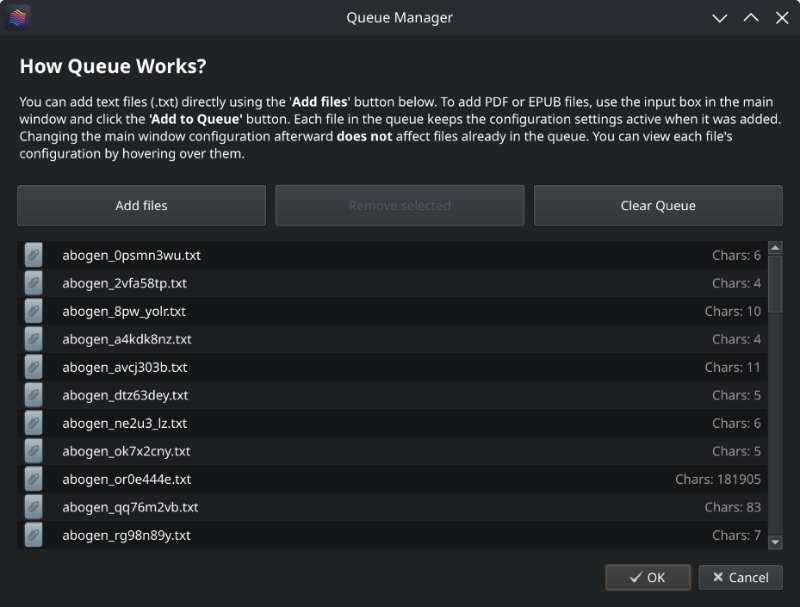
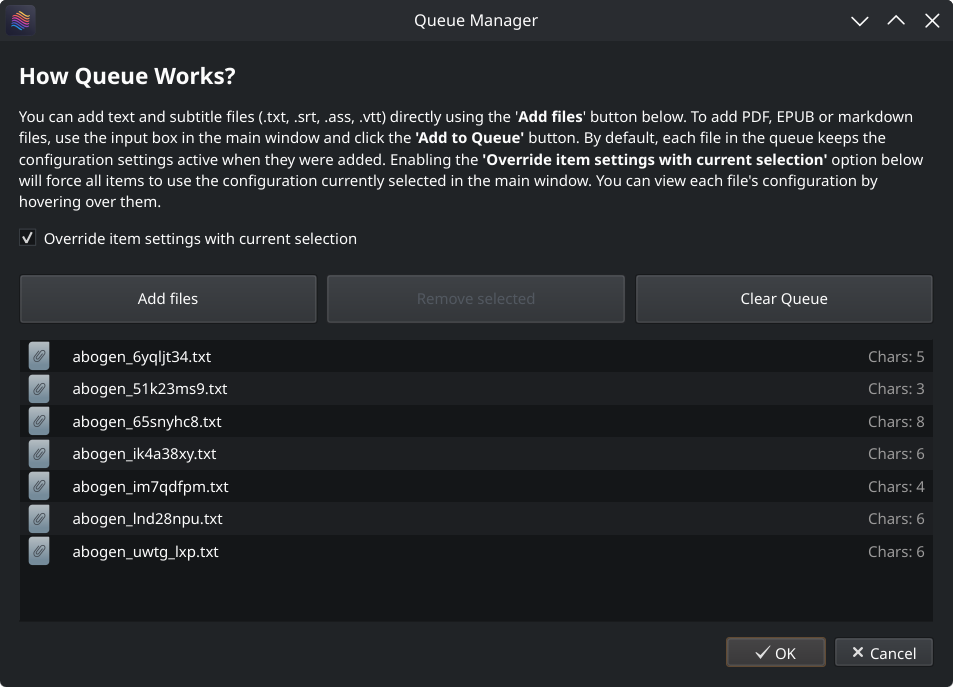
Added new option: `Override item settings with current selection`

diff --git a/abogen/gui.py b/abogen/gui.py
@@ -1952,6 +1952,11 @@ class abogen(QWidget):
         dialog = QueueManager(self, self.queued_items)
         if dialog.exec() == QDialog.DialogCode.Accepted:
             self.queued_items = dialog.get_queue()
+
+            # Reload config to capture the new "Override" setting
+            # The QueueManager writes to disk, so we must refresh our local copy
+            self.config = load_config()
+            
             # re-enable/disable buttons based on queue state
             self.enable_disable_queue_buttons()
 
@@ -1967,30 +1972,62 @@ class abogen(QWidget):
     def start_next_queued_item(self):
         if self.current_queue_index < len(self.queued_items):
             queued_item = self.queued_items[self.current_queue_index]
+            
             self.selected_file = queued_item.file_name
-            self.selected_lang = queued_item.lang_code
-            self.speed_slider.setValue(int(queued_item.speed * 100))
-            self.selected_voice = queued_item.voice
-            self.save_option = queued_item.save_option
-            self.selected_output_folder = queued_item.output_folder
-            self.subtitle_mode = queued_item.subtitle_mode
-            self.selected_format = queued_item.output_format
             self.char_count = queued_item.total_char_count
-            self.replace_single_newlines = getattr(
-                queued_item, "replace_single_newlines", True
+            
+            # Restore the original file path for save location (Important for EPUB/PDF)
+            self.displayed_file_path = (
+                queued_item.save_base_path or queued_item.file_name
             )
-            self.use_silent_gaps = getattr(queued_item, "use_silent_gaps", False)
-            # Restore save_chapters_separately and merge_chapters_at_end from queued item
+            
+            # Restore chapter options (Structure specific, must be preserved)
             self.save_chapters_separately = getattr(
                 queued_item, "save_chapters_separately", None
             )
             self.merge_chapters_at_end = getattr(
                 queued_item, "merge_chapters_at_end", None
             )
-            # Restore the original file path for save location
-            self.displayed_file_path = (
-                queued_item.save_base_path or queued_item.file_name
-            )
+
+            # CHECK GLOBAL OVERRIDE SETTING
+            if not self.config.get("queue_override_settings", False):
+                self.selected_lang = queued_item.lang_code
+                self.speed_slider.setValue(int(queued_item.speed * 100))
+                
+                # Load the specific voice string
+                self.selected_voice = queued_item.voice
+                # Clear complex GUI states so the specific voice string is used
+                self.mixed_voice_state = None
+                self.selected_profile_name = None
+
+                self.save_option = queued_item.save_option
+                self.selected_output_folder = queued_item.output_folder
+                self.subtitle_mode = queued_item.subtitle_mode
+                self.selected_format = queued_item.output_format
+                self.replace_single_newlines = getattr(
+                    queued_item, "replace_single_newlines", True
+                )
+                self.use_silent_gaps = getattr(queued_item, "use_silent_gaps", False)
+                self.subtitle_speed_method = getattr(
+                    queued_item, "subtitle_speed_method", "tts"
+                )
+
+                # This ensures that if conversion.py (or utils) reads from config/disk 
+                # instead of using passed arguments, it sees the correct queue values.
+                self.config["replace_single_newlines"] = self.replace_single_newlines
+                self.config["subtitle_mode"] = self.subtitle_mode
+                self.config["selected_format"] = self.selected_format
+                self.config["use_silent_gaps"] = self.use_silent_gaps
+                self.config["subtitle_speed_method"] = self.subtitle_speed_method
+                
+                # Sync Voice/Profile in config
+                self.config["selected_voice"] = self.selected_voice
+                if "selected_profile_name" in self.config:
+                    del self.config["selected_profile_name"]
+                
+                # Note: Speed is already synced via self.speed_slider.setValue() -> update_speed_label()
+                save_config(self.config)
+
             self.start_conversion(from_queue=True)
         else:
             # Queue finished, reset index
@@ -2188,36 +2225,95 @@ class abogen(QWidget):
         threading.Thread(target=gpu_and_load, daemon=True).start()
 
     def show_queue_summary(self):
-        """Show a styled, resizable summary dialog after queue finishes."""
+        """Show a summary dialog after queue finishes."""
         if not self.queued_items:
             return
 
-        # Build HTML summary for better styling
+        # Check if override was active (this determines which settings were ACTUALLY used)
+        override_active = self.config.get("queue_override_settings", False)
+
+        # If override is ON, capture the global settings that were used for processing
+        if override_active:
+            g_voice = self.get_voice_formula()
+            g_lang = self.get_selected_lang(g_voice)
+            g_speed = self.speed_slider.value() / 100.0
+            g_sub_mode = self.get_actual_subtitle_mode()
+            g_format = self.selected_format
+            g_newlines = self.replace_single_newlines
+            g_silent_gaps = self.use_silent_gaps
+            g_speed_method = self.subtitle_speed_method
+        
+        # Build HTML summary (Default Styling)
         summary_html = "<html><body>"
+        
+        header_text = "Queue finished"
+        if override_active:
+            header_text += " (Global Settings Applied)"
+            
         summary_html += (
-            f"<h2 style='color:{COLORS['LIGHT_BG']};'>Queue finished</h2>"
+            f"<h2>{header_text}</h2>"
             f"Processed {len(self.queued_items)} items:<br><br>"
         )
 
         for idx, item in enumerate(self.queued_items, 1):
-            output = getattr(item, "output_path", None)
-            if not output:
-                output = "Unknown"
+            # Resolve Effective Settings
+            if override_active:
+                eff_lang = g_lang
+                eff_voice = g_voice
+                eff_speed = g_speed
+                eff_sub_mode = g_sub_mode
+                eff_format = g_format
+                eff_newlines = g_newlines
+                eff_silent = g_silent_gaps
+                eff_method = g_speed_method
+            else:
+                eff_lang = item.lang_code
+                eff_voice = item.voice
+                eff_speed = item.speed
+                eff_sub_mode = item.subtitle_mode
+                eff_format = item.output_format
+                eff_newlines = getattr(item, "replace_single_newlines", True)
+                eff_silent = getattr(item, "use_silent_gaps", False)
+                eff_method = getattr(item, "subtitle_speed_method", "tts")
+
+            # Retrieve File-Specific Data (Never Overridden)
+            eff_chars = item.total_char_count
+            eff_input = item.file_name
+            eff_output = getattr(item, "output_path", "Unknown") 
+            eff_save_sep = getattr(item, "save_chapters_separately", None)
+            eff_merge = getattr(item, "merge_chapters_at_end", None)
+
+            # --- Construct Display Block ---
             summary_html += (
-                f"<span style='color:{COLORS['GREEN']}; font-weight:bold;'>{idx}) {os.path.basename(item.file_name)}</span><br>"
-                f"<span style='color:{COLORS['LIGHT_DISABLED']};'>Language:</span> {item.lang_code}<br>"
-                f"<span style='color:{COLORS['LIGHT_DISABLED']};'>Voice:</span> {item.voice}<br>"
-                f"<span style='color:{COLORS['LIGHT_DISABLED']};'>Speed:</span> {item.speed}<br>"
-                f"<span style='color:{COLORS['LIGHT_DISABLED']};'>Characters:</span> {item.total_char_count}<br>"
-                f"<span style='color:{COLORS['LIGHT_DISABLED']};'>Input:</span> {item.file_name}<br>"
-                f"<span style='color:{COLORS['LIGHT_DISABLED']};'>Output:</span> {output}</span>"
-                f"<br><br>"
+                f"<span style='color:{COLORS['GREEN']}; font-weight:bold;'>{idx}) {os.path.basename(eff_input)}</span><br>"
+                f"<span style='color:{COLORS['LIGHT_DISABLED']};'>Language:</span> {eff_lang}<br>"
+                f"<span style='color:{COLORS['LIGHT_DISABLED']};'>Voice:</span> {eff_voice}<br>"
+                f"<span style='color:{COLORS['LIGHT_DISABLED']};'>Speed:</span> {eff_speed}<br>"
+                f"<span style='color:{COLORS['LIGHT_DISABLED']};'>Characters:</span> {eff_chars}<br>"
+                f"<span style='color:{COLORS['LIGHT_DISABLED']};'>Format:</span> {eff_format}<br>"
+                f"<span style='color:{COLORS['LIGHT_DISABLED']};'>Subtitle Mode:</span> {eff_sub_mode}<br>"
+                f"<span style='color:{COLORS['LIGHT_DISABLED']};'>Method:</span> {eff_method}<br>"
+                f"<span style='color:{COLORS['LIGHT_DISABLED']};'>Silent Gaps:</span> {eff_silent}<br>"
+                f"<span style='color:{COLORS['LIGHT_DISABLED']};'>Repl. Newlines:</span> {eff_newlines}<br>"
             )
+
+            # Book/Chapter specific options
+            if eff_save_sep is not None:
+                summary_html += f"<span style='color:{COLORS['LIGHT_DISABLED']};'>Split Chapters:</span> {eff_save_sep}<br>"
+                if eff_save_sep and eff_merge is not None:
+                    summary_html += f"<span style='color:{COLORS['LIGHT_DISABLED']};'>Merge End:</span> {eff_merge}<br>"
+
+            summary_html += (
+                f"<span style='color:{COLORS['LIGHT_DISABLED']};'>Input:</span> {eff_input}<br>"
+                f"<span style='color:{COLORS['LIGHT_DISABLED']};'>Output:</span> {eff_output}<br><br>"
+            )
+
         summary_html += "</body></html>"
 
         dialog = QDialog(self)
         dialog.setWindowTitle("Queue Summary")
-        dialog.resize(550, 650)  # Make window resizable and larger
+        # Allow resizing
+        dialog.resize(550, 650)
 
         layout = QVBoxLayout(dialog)
         text_edit = QTextEdit(dialog)
@@ -2232,7 +2328,7 @@ class abogen(QWidget):
 
         dialog.setLayout(layout)
         dialog.setMinimumSize(400, 300)
-        dialog.setSizeGripEnabled(True)  # Allow resizing
+        dialog.setSizeGripEnabled(True)
         dialog.exec()
 
     def on_conversion_finished(self, message, output_path):

diff --git a/abogen/queue_manager_gui.py b/abogen/queue_manager_gui.py
@@ -15,11 +15,27 @@ from PyQt6.QtWidgets import (
     QWidget,
     QSizePolicy,
     QAbstractItemView,
+    QCheckBox,
 )
 from PyQt6.QtCore import QFileInfo, Qt
 from abogen.constants import COLORS
 from copy import deepcopy
 from PyQt6.QtGui import QFontMetrics
+from abogen.utils import load_config, save_config
+
+# Define attributes that are safe to override with global settings
+OVERRIDE_FIELDS = [
+    "lang_code",
+    "speed",
+    "voice",
+    "save_option",
+    "output_folder",
+    "subtitle_mode",
+    "output_format",
+    "replace_single_newlines",
+    "use_silent_gaps",
+    "subtitle_speed_method",
+]
 
 
 class ElidedLabel(QLabel):
@@ -149,6 +165,8 @@ class QueueManager(QDialog):
             queue
         )  # Store a deep copy of the original queue
         self.parent = parent
+        self.config = load_config()  # Load config for persistence
+
         layout = QVBoxLayout()
         layout.setContentsMargins(15, 15, 15, 15)  # set main layout margins
         layout.setSpacing(12)  # set spacing between widgets in main layout
@@ -165,14 +183,27 @@ class QueueManager(QDialog):
             "<h2>How Queue Works?</h2>"
             "You can add text and subtitle files (.txt, .srt, .ass, .vtt) directly using the '<b>Add files</b>' button below. "
             "To add PDF, EPUB or markdown files, use the input box in the main window and click the <b>'Add to Queue'</b> button. "
-            "Each file in the queue keeps the configuration settings active when it was added. "
-            "Changing the main window configuration afterward <b>does not</b> affect files already in the queue. "
+            "By default, each file in the queue keeps the configuration settings active when they were added. "
+            "Enabling the <b>'Override item settings with current selection'</b> option below will force all items to use the configuration currently selected in the main window. "
             "You can view each file's configuration by hovering over them."
         )
         instructions.setAlignment(Qt.AlignmentFlag.AlignLeft)
         instructions.setWordWrap(True)
-        instructions.setStyleSheet("margin-bottom: 8px;")
         layout.addWidget(instructions)
+
+        # Override Checkbox
+        self.override_chk = QCheckBox("Override item settings with current selection")
+        self.override_chk.setToolTip(
+            "If checked, all items in the queue will be processed using the \n"
+            "settings currently selected in the main window, ignoring their saved state."
+        )
+        # Load saved state (default to False)
+        self.override_chk.setChecked(self.config.get("queue_override_settings", False))
+        # Trigger process_queue to update tooltips immediately when toggled
+        self.override_chk.stateChanged.connect(self.process_queue)
+        self.override_chk.setStyleSheet("margin-bottom: 8px;")
+        layout.addWidget(self.override_chk)
+
         # Overlay label for empty queue
         self.empty_overlay = QLabel(
             "Drag and drop your text or subtitle files here or use the 'Add files' button.",
@@ -245,8 +276,21 @@ class QueueManager(QDialog):
             return
         else:
             self.empty_overlay.hide()
+
+        # Get current global settings and checkbox state for overrides
+        current_global_settings = self.get_current_attributes()
+        is_override_active = self.override_chk.isChecked()
+
         icon_provider = QFileIconProvider()
         for item in self.queue:
+            # Dynamic Attribute Retrieval Helper
+            def get_val(attr, default=""):
+                # If override is ON and attr is overrideable, use global setting
+                if is_override_active and attr in OVERRIDE_FIELDS:
+                    return current_global_settings.get(attr, default)
+                # Otherwise return the item's saved attribute
+                return getattr(item, attr, default)
+
             # Determine display file path (prefer save_base_path for original file)
             display_file_path = getattr(item, "save_base_path", None) or item.file_name
             processing_file_path = item.file_name
@@ -271,8 +315,14 @@ class QueueManager(QDialog):
             # Get icon for the display file
             icon = icon_provider.icon(QFileInfo(display_file_path))
             list_item = QListWidgetItem()
-            # Set tooltip with detailed info
-            output_folder = getattr(item, "output_folder", "")
+
+            # Tooltip Generation
+            tooltip = ""
+            # If override is active, add the warning header on its own line
+            if is_override_active:
+                tooltip += "<b style='color: #ff9900;'>(Global Override Active)</b><br>"
+
+            output_folder = get_val("output_folder")
             # For plain .txt inputs we don't need to show a separate processing file
             show_processing = True
             try:
@@ -283,30 +333,31 @@ class QueueManager(QDialog):
             except Exception:
                 show_processing = True
 
-            tooltip = f"<b>Input File:</b> {display_file_path}<br>"
+            tooltip += f"<b>Input File:</b> {display_file_path}<br>"
             if (
                 show_processing
                 and processing_file_path
                 and processing_file_path != display_file_path
             ):
                 tooltip += f"<b>Processing File:</b> {processing_file_path}<br>"
+
             tooltip += (
-                f"<b>Language:</b> {getattr(item, 'lang_code', '')}<br>"
-                f"<b>Speed:</b> {getattr(item, 'speed', '')}<br>"
-                f"<b>Voice:</b> {getattr(item, 'voice', '')}<br>"
-                f"<b>Save Option:</b> {getattr(item, 'save_option', '')}<br>"
+                f"<b>Language:</b> {get_val('lang_code')}<br>"
+                f"<b>Speed:</b> {get_val('speed')}<br>"
+                f"<b>Voice:</b> {get_val('voice')}<br>"
+                f"<b>Save Option:</b> {get_val('save_option')}<br>"
             )
             if output_folder not in (None, "", "None"):
                 tooltip += f"<b>Output Folder:</b> {output_folder}<br>"
             tooltip += (
-                f"<b>Subtitle Mode:</b> {getattr(item, 'subtitle_mode', '')}<br>"
-                f"<b>Output Format:</b> {getattr(item, 'output_format', '')}<br>"
+                f"<b>Subtitle Mode:</b> {get_val('subtitle_mode')}<br>"
+                f"<b>Output Format:</b> {get_val('output_format')}<br>"
                 f"<b>Characters:</b> {getattr(item, 'total_char_count', '')}<br>"
-                f"<b>Replace Single Newlines:</b> {getattr(item, 'replace_single_newlines', True)}<br>"
-                f"<b>Use Silent Gaps:</b> {getattr(item, 'use_silent_gaps', False)}<br>"
-                f"<b>Speed Method:</b> {getattr(item, 'subtitle_speed_method', 'tts')}"
+                f"<b>Replace Single Newlines:</b> {get_val('replace_single_newlines', True)}<br>"
+                f"<b>Use Silent Gaps:</b> {get_val('use_silent_gaps', False)}<br>"
+                f"<b>Speed Method:</b> {get_val('subtitle_speed_method', 'tts')}"
             )
-            # Add book handler options if present
+            # Add book handler options if present (Preserve logic: specific to file structure)
             save_chapters_separately = getattr(item, "save_chapters_separately", None)
             merge_chapters_at_end = getattr(item, "merge_chapters_at_end", None)
             if save_chapters_separately is not None:
@@ -531,7 +582,6 @@ class QueueManager(QDialog):
 
     def add_more_files(self):
         from PyQt6.QtWidgets import QFileDialog
-        from abogen.utils import calculate_text_length  # import the function
 
         # Allow .txt, .srt, .ass, and .vtt files
         files, _ = QFileDialog.getOpenFileNames(
@@ -774,7 +824,10 @@ class QueueManager(QDialog):
         menu.exec(global_pos)
 
     def accept(self):
-        # Accept: keep changes
+        # Save the override state to config so it persists globally
+        self.config["queue_override_settings"] = self.override_chk.isChecked()
+        save_config(self.config)
+        
         super().accept()
 
     def reject(self):

diff --git a/README.md b/README.md
@@ -191,8 +191,9 @@ With voice mixer, you can create custom voices by mixing different voice models.
 
 Abogen supports **queue mode**, allowing you to add multiple files to a processing queue. This is useful if you want to convert several files in one batch.
 
-- You can add text files (`.txt`) directly using the **Add files** button in the Queue Manager. To add PDF, EPUB, or markdown files, use the input box in the main window and click the **Add to Queue** button.
+- You can add text files (`.txt`) and subtitle files (`.srt`, `.ass`, `.vtt`) directly using the **Add files** button in the Queue Manager or by dragging and dropping them into the queue list. To add PDF, EPUB, or markdown files, use the input box in the main window and click the **Add to Queue** button.
 - Each file in the queue keeps the configuration settings that were active when it was added. Changing the main window configuration afterward does **not** affect files already in the queue.
+- You can enable the **Override item settings with current selection** option to force all items in the queue to use the configuration currently selected in the main window, overriding their saved settings.
 - You can view each file's configuration by hovering over them.
 
 Abogen will process each item in the queue automatically, saving outputs as configured.

diff --git a/CHANGELOG.md b/CHANGELOG.md
@@ -1,4 +1,5 @@
 # 1.2.5 (Pre-release)
+- Added new option: `Override item settings with current selection` in the queue manager. When enabled, all items in the queue will be processed using the current global settings selected in the main GUI, overriding their individual settings. When disabled, each item will retain its own specific settings.
 - Fixed `Error "Could not load the Qt platform plugin "xcb"` error that occurred in some Linux distributions due to missing `libxcb-cursor0` library by conditionally loading the bundled library when the system version is unavailable, issue mentioned by @bmcgonag in #101.
 - Fixed the `No module named pip` error that occurred for users who installed Abogen via the [**uv**](https://github.com/astral-sh/uv) installer.
 - Fixed defaults for `replace_single_newlines` not being applied correctly in some cases.
